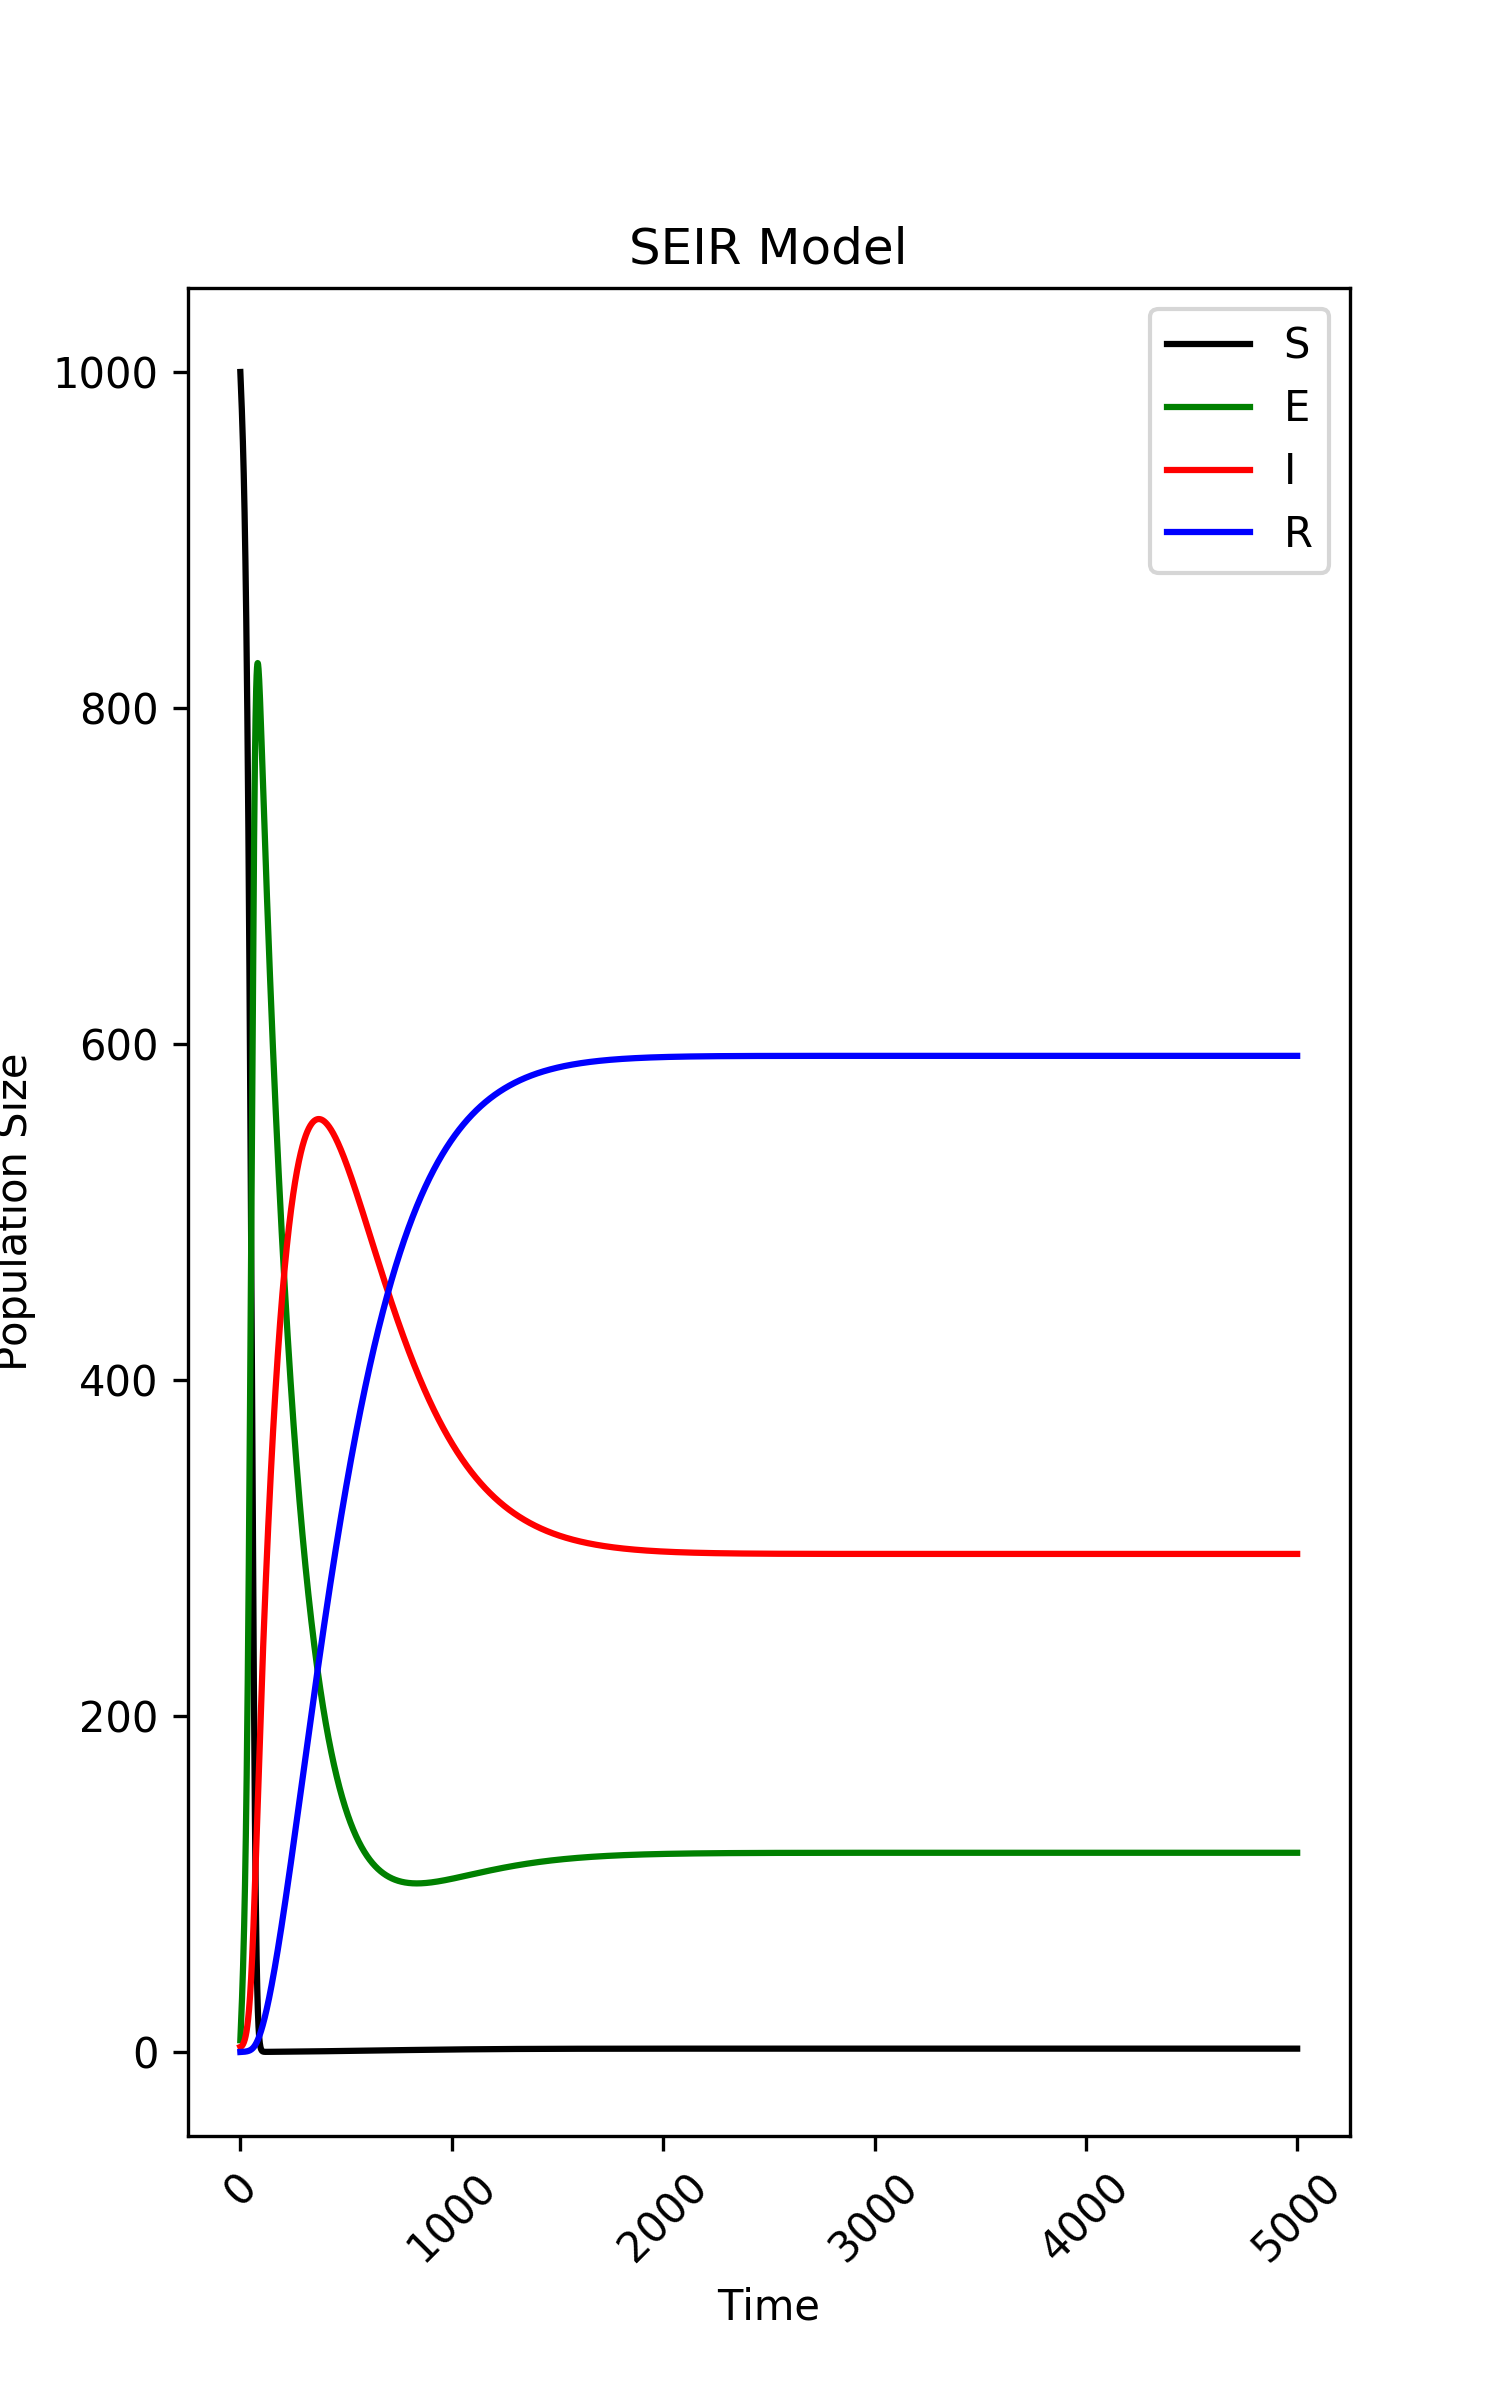
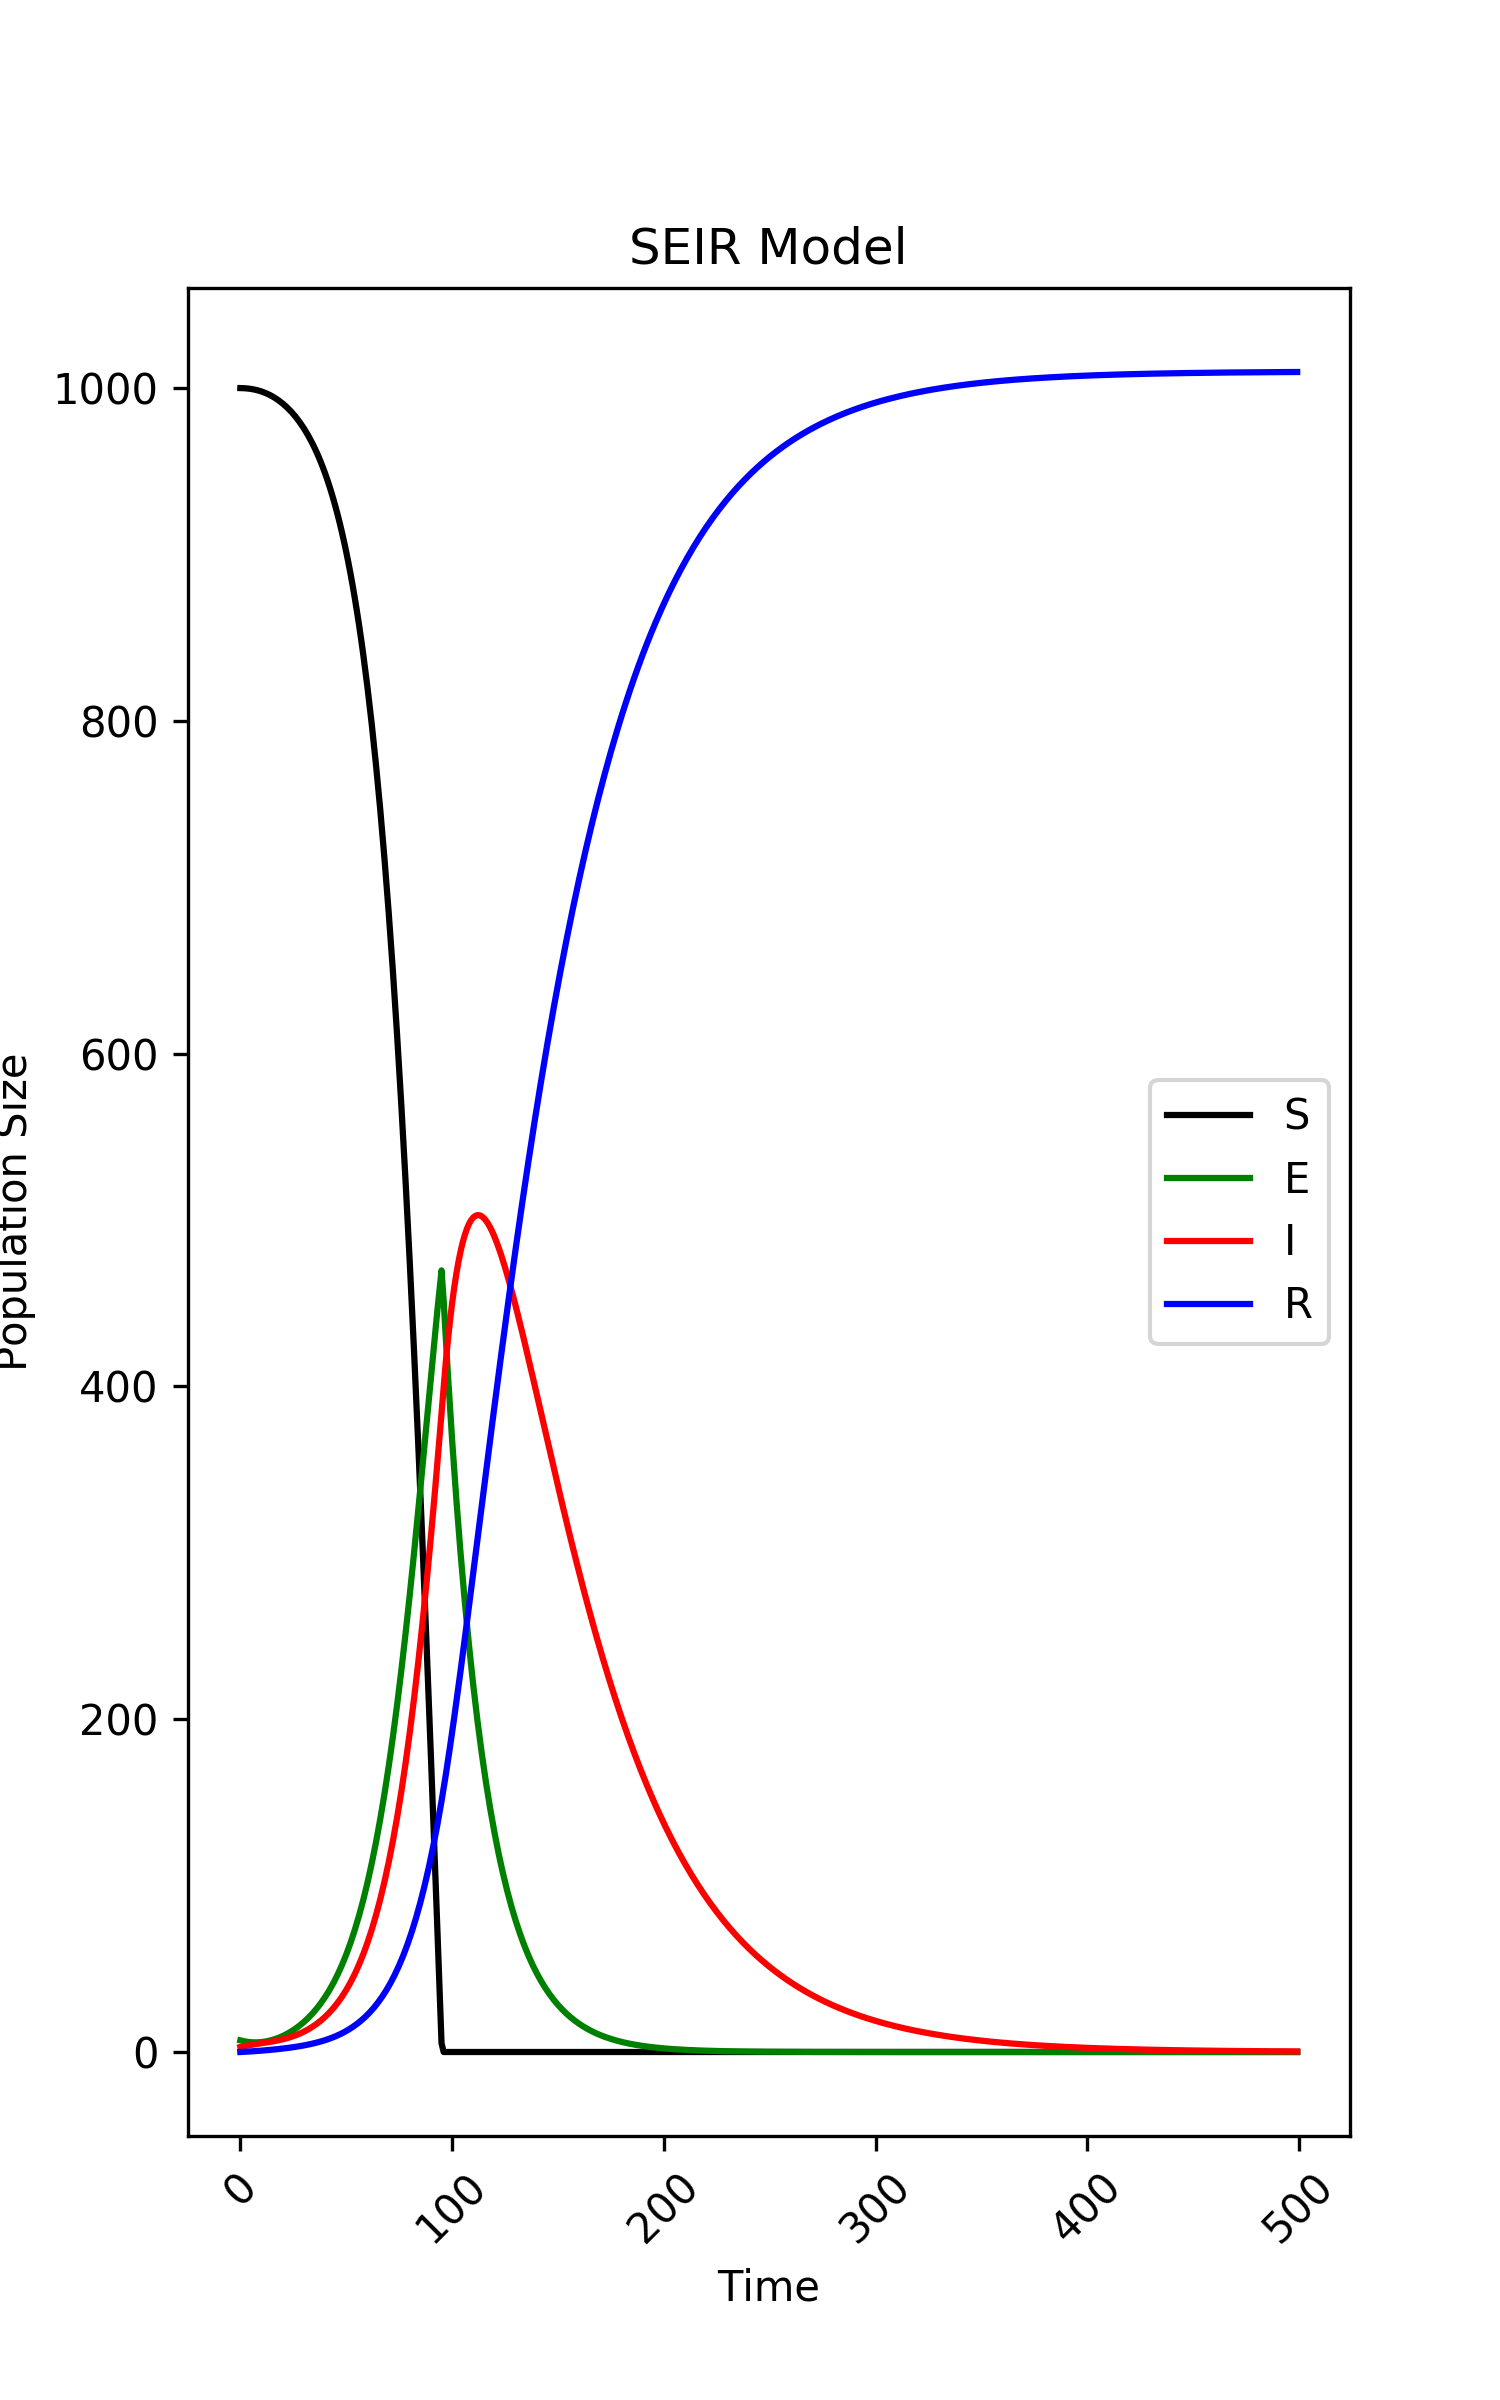
discrete time version

diff --git a/src/seir.py b/src/seir.py
@@ -5,6 +5,7 @@ import json
 import argparse
 import matplotlib.pyplot as plt
 import os
+import datetime as dt
 
 # ----------------------------------------------------------------------------------------------
 # -- Read in parameters file
@@ -40,6 +41,13 @@ def validate_params(param_dict, float_keys, int_keys, str_keys):
         if type(param_dict[key]) != str:
             raise ValueError('Parameter {} is not specified as a string.'.format(key))
 
+# ----------------------------------------------------------------------------------------------
+# -- static methods
+# ----------------------------------------------------------------------------------------------
+
+def deterministic_pars(param):
+
+    return param
 
 # ----------------------------------------------------------------------------------------------
 # -- define the system of differential equations
@@ -47,55 +55,84 @@ def validate_params(param_dict, float_keys, int_keys, str_keys):
 
 class SEIR:
 
-    def __init__(self, beta, mu, sigma, gamma, omega, start_S, start_E, start_I, start_R, duration, outdir):
+    def __init__(self, days, beta, mu, sigma, gamma, omega, start_S, start_E, start_I, start_R, outdir):
 
+        self.days = days
+        self.interval_per_day = 10
+        self.duration = self.days * self.interval_per_day  # number of discrete time steps with 10 time steps per day
         self.beta = beta  # transmission rate
-        self.mu = mu  # death rate from infection
-        self.sigma = sigma  # rate E -> I
-        self.gamma = gamma  # recovery rate
-        self.omega = omega  # waning immunity
+        self.mu = mu / self.interval_per_day  # death rate from infection
+        self.sigma = sigma / self.interval_per_day  # rate E -> I
+        self.gamma = gamma / self.interval_per_day  # recovery rate
+        self.omega = omega  # relative infectiousness
+        self.phi = 1  # contact matrix for school; set aside now
         self.start_S = start_S
         self.start_E = start_E
         self.start_I = start_I
         self.start_R = start_R
-        self.duration = duration
         self.outdir = outdir
-        self.R = [self.start_S, self.start_E, self.start_I, self.start_R]
+        self.Sus = [self.start_S]  # speed up code by setting array size at the beginning
+        self.Exp = [self.start_E]
+        self.Inf = [self.start_I]
+        self.Rec = [self.start_R]
+        self.N = [self.Sus[0] + self.Exp[0] + self.Inf[0] + self.Rec[0]]
+        self.stochastic = False
+        self.force_inf = 0
+        self.rate_s2e = 0  # force of infection
+        self.distr_function = deterministic_pars
+        if self.stochastic:
+            self.distr_function = np.random.poisson
 
-    def seir(self, x, t):
+    def N_t(self, t):
 
-        S = x[0]
-        E = x[1]
-        I = x[2]
-        R = x[3]
+        self.N.append(self.Sus[t] + self.Exp[t] + self.Inf[t] + self.Rec[t])
 
-        y = np.zeros(4)
+    def calc_force_infection(self, t):
 
-        y[0] = self.mu - ((self.beta * I) + self.mu) * S + (self.omega * R)
-        y[1] = (self.beta * S * I) - (self.mu + self.sigma) * E
-        y[2] = (self.sigma * E) - (self.mu + self.gamma) * I
-        y[3] = (self.gamma * I) - (self.mu * R) - (self.omega * R)
+        self.force_inf += ((self.beta * self.phi * self.omega * self.Sus[t-1] * self.Inf[t-1]) / self.N[t-1])
+        return self.distr_function(self.force_inf)
 
-        return y
+    def calc_exp_to_inf(self, t):
 
-    def integrate(self):
+        return self.distr_function(self.sigma * self.Exp[t-1])
 
-        time = np.arange(0, self.duration, 0.01)
-        results = scipy.integrate.odeint(self.seir, self.R, time)
+    def calc_inf_to_rec(self, t):
 
-        return results
+        return self.distr_function(self.gamma * self.Inf[t-1])
 
-    def plot_timeseries(self, results):
+    def seir(self):
 
-        time = np.arange(0, len(results[:, 1]))
+        for t in range(1, self.duration):
 
-        plt.figure(figsize=(5,8), dpi=300)
+            ## set rates
+            rate_s2e = self.calc_force_infection(t)
+            rate_e2i = self.calc_exp_to_inf(t)
+            rate_i2r = self.calc_inf_to_rec(t)
+
+            self.Sus.append(max(0, self.Sus[t-1] - rate_s2e))
+            if not self.Sus[t] > 0:
+                rate_s2e = self.Sus[t-1]
+            self.Exp.append(max(0, self.Exp[t-1] + rate_s2e - rate_e2i))
+            if not self.Exp[t] > 0:
+                rate_e2i = self.Exp[t-1] + rate_s2e
+            self.Inf.append(max(0, self.Inf[t-1] + rate_e2i - rate_i2r))
+            if not self.Inf[t] > 0:
+                rate_i2r = self.Inf[t-1] + rate_e2i
+            self.Rec.append(max(0, self.Rec[t-1] + rate_i2r))
+
+            self.N_t(t)  # update population totals
+
+    def plot_timeseries(self):
+
+        time = np.arange(0, self.duration)
+
+        plt.figure(figsize=(5, 8), dpi=300)
 
         plt.plot(
-            time, results[:, 0], "k",
-            time, results[:, 1], "g",
-            time, results[:, 2], "r",
-            time, results[:, 3], "b",)
+            time, self.Sus, "k",
+            time, self.Exp, "g",
+            time, self.Inf, "r",
+            time, self.Rec, "b",)
         plt.legend(("S", "E", "I", "R"), loc=0)
         plt.ylabel("Population Size")
         plt.xlabel("Time")
@@ -111,15 +148,15 @@ def main(opts):
     pars = acquire_params(opts.paramfile)
 
     float_keys = ['beta', 'mu', 'sigma', 'gamma', 'omega']
-    int_keys = ['start_S', 'start_E', 'start_I', 'start_R', 'duration']
+    int_keys = ['start_S', 'start_E', 'start_I', 'start_R', 'days']
     str_keys = ['outdir']
     validate_params(pars, float_keys, int_keys, str_keys)
 
     # ----- Run model if inputs are valid -----#
 
     seir_model = SEIR(**pars)
-    r = seir_model.integrate()
-    seir_model.plot_timeseries(r)
+    seir_model.seir()
+    seir_model.plot_timeseries()
 
 if __name__ == '__main__':
 

diff --git a/README.md b/README.md
@@ -1,4 +1,4 @@
-# SEIR Example
+# Discrete Time SEIR Example
 
 **Please note all instructions are for Unix-alike systems using bash.**
 
@@ -27,4 +27,4 @@
 
 ## Citation
 
-Keeling, M.J. and Rohani, P. (2007) Modeling Infectious Diseases in Humans and Animals. Princeton University Press.
+n/a; modified from Meyers Lab code for epidemic simulation
